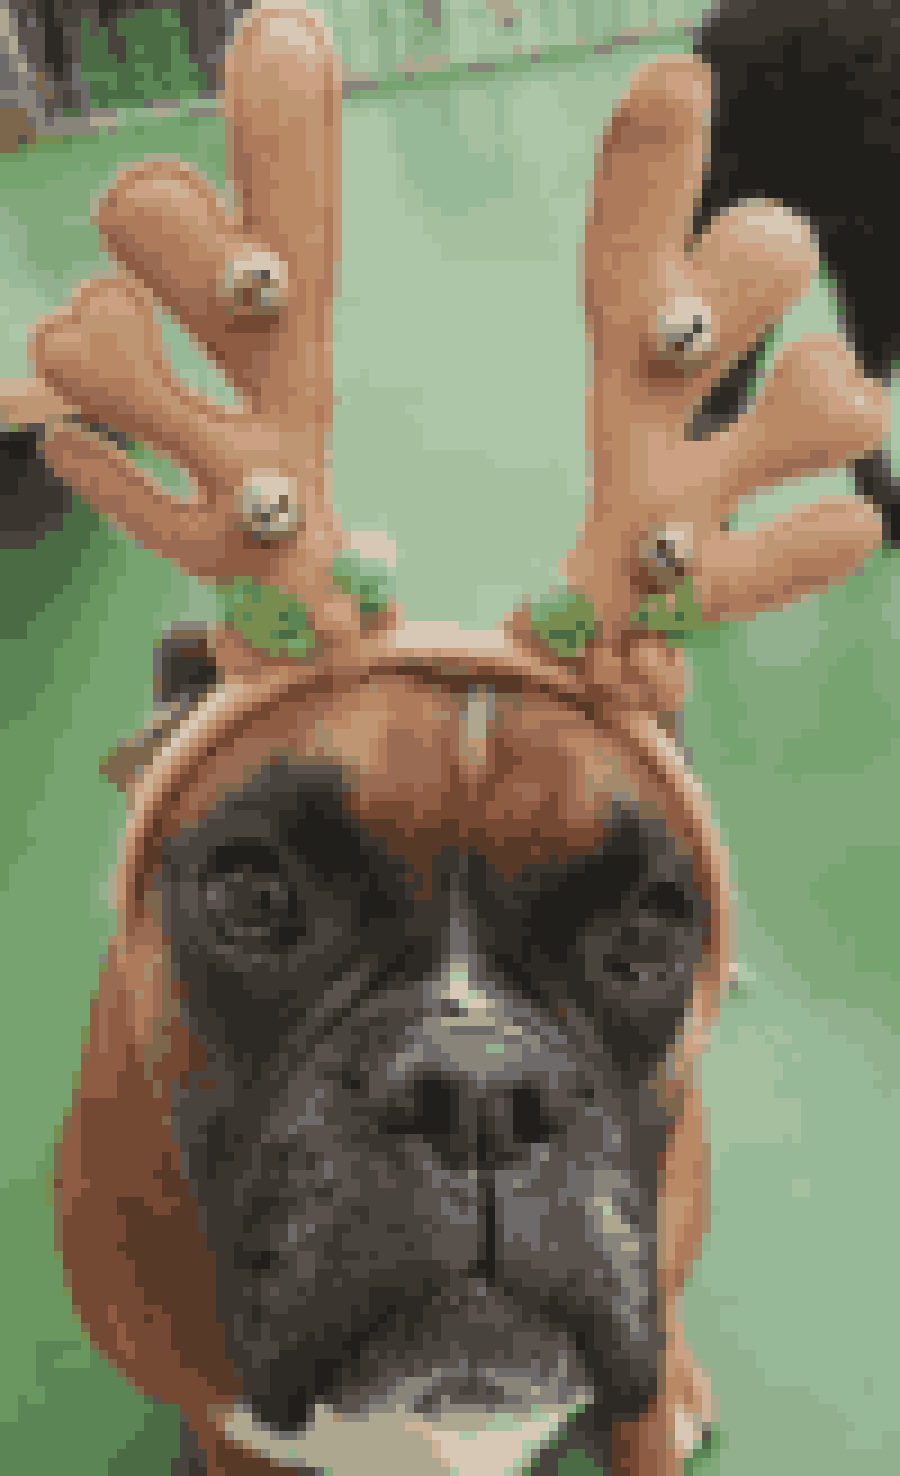
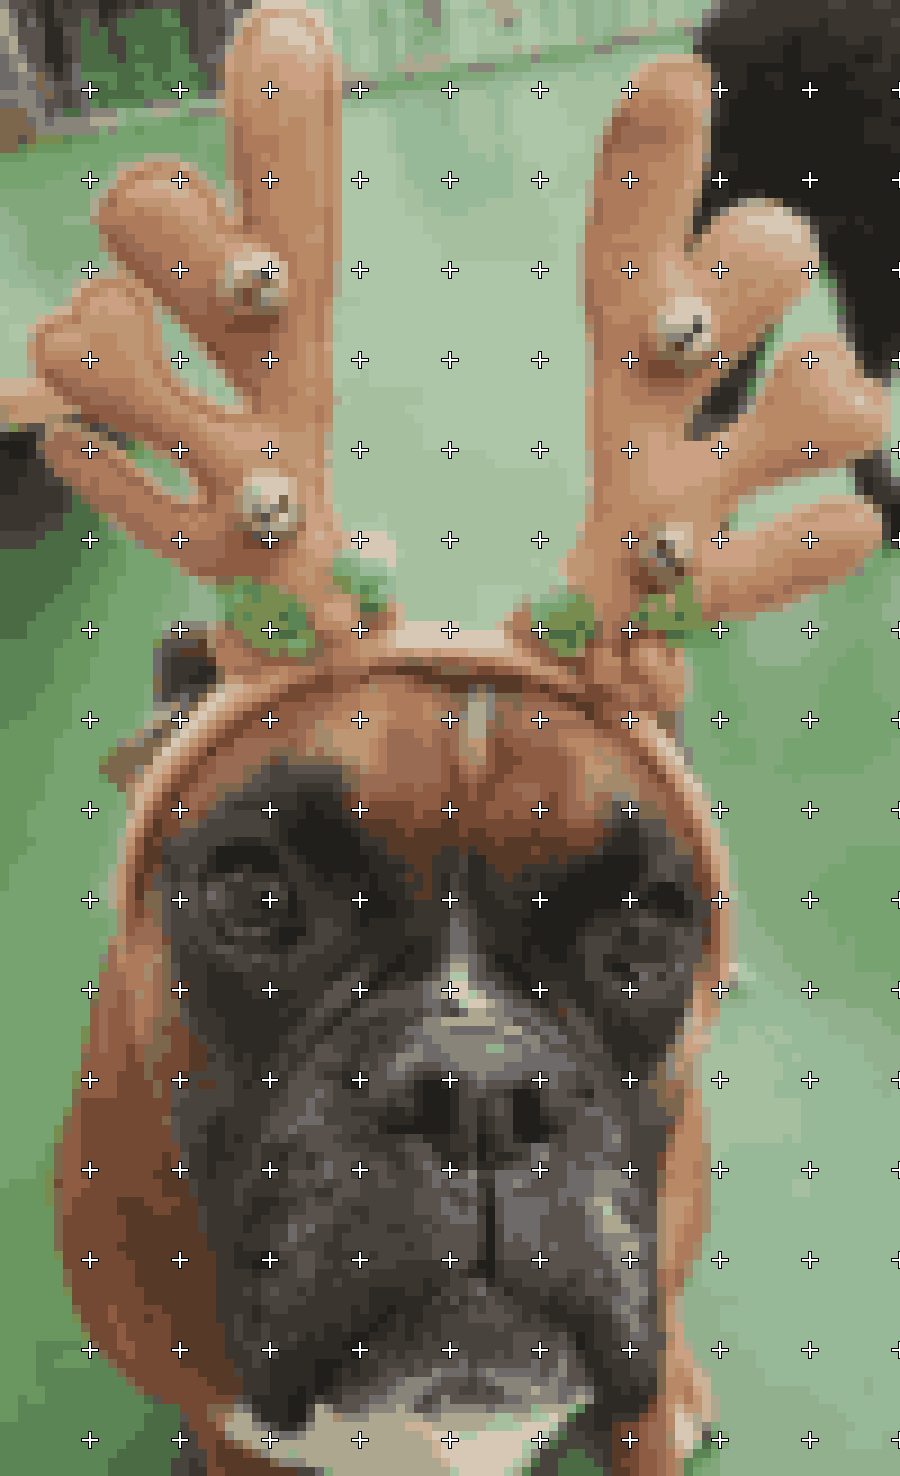
message

diff --git a/pytapestry.py b/pytapestry.py
@@ -9,6 +9,7 @@ argument. Happy 40th Birthday Zoe!
 import numpy as np
 from pathlib import Path
 import argparse
+import matplotlib.pyplot as plt
 
 from skimage.io import imread, imsave
 from skimage.transform import rescale
@@ -32,6 +33,9 @@ parser.add_argument(
 parser.add_argument(
     '--tapestry-width-cells', '-wp', type=int, default=0,
     help='the intended width of the tapestry in canvas cells (pixels)')
+parser.add_argument(
+    '--markers', '-m', type=int, default=0,
+    help='cell interval for marker placement')
 
 args = parser.parse_args()
 
@@ -72,6 +76,91 @@ im_reduced_scaled = np.repeat(im_reduced_scaled, repeats=pixel_scale, axis=1)
 out_filename = args.filepath.stem + '_{}_{}_{}.png'.format(
     args.n_colours, args.canvas_count, int(np.floor(tapestry_width*1000)))
 out_filepath = args.filepath.parent / out_filename
+
+from matplotlib.patches import Rectangle
+import matplotlib.pyplot as plt
+import matplotlib.colors as mcolors
+from matplotlib import rcParams
+import matplotlib.patheffects as pe
+
+cols = 2
+num_rows = np.ceil(len(kmeans.cluster_centers_) / cols)
+
+fig, ax = plt.subplots()
+ax.axis('off')
+cell_height = .1
+cell_width = .5
+swatch_width = .1
+
+ax.set_ylim([1-num_rows*cell_height,1])
+
+for i, colour in enumerate(kmeans.cluster_centers_):
+    # import pdb; pdb.set_trace()
+    row = i // cols
+    col = i % cols
+
+    y = 1 - row * cell_height
+
+    swatch_start_x = cell_width * col
+    text_pos_x = cell_width * col + swatch_width + .025
+
+    rcParams.update({'font.size': 10})
+    rcParams.update({'font.weight': 'normal'})
+    rcParams['font.family'] = 'serif'
+    rcParams.update({'font.serif': 'Times New Roman'})
+
+    colour_rgb = np.round(colour*255).astype(int)
+    label = 'RGB = ({}, {}, {})'.format(
+        colour_rgb[0], colour_rgb[1], colour_rgb[2])
+
+    ax.text(
+        swatch_start_x+swatch_width/3, y-2*cell_height/3, str(i+1),
+        fontsize=12, zorder=1, fontweight='bold', color='w',
+        path_effects=[
+            pe.Stroke(linewidth=3, foreground='k'), pe.Normal()])
+
+    ax.text(
+        text_pos_x, y-cell_height/2, label, fontsize=10,
+        horizontalalignment='left', verticalalignment='center')
+
+    ax.add_patch(
+        Rectangle(
+            xy=(swatch_start_x, y-cell_height), width=swatch_width, height=.1,
+            facecolor=colour))
+
+plt.savefig(
+    args.filepath.parent / 'swatch.png', dpi=96,
+    bbox_inches='tight', format='png')
+
+
+def add_markers(im, interval, pixel_scale):
+    height, width, depth = im.shape
+    del_pix = interval*pixel_scale
+    cross_len = pixel_scale
+    cross_width = 2
+    line_len = 1
+    for i in range(1, height):
+        for j in range(1, width):
+            im[
+                i*del_pix-cross_len:i*del_pix+cross_len,
+                j*del_pix-cross_width:j*del_pix+cross_width, :] = 0
+            im[
+                i*del_pix-cross_width:i*del_pix+cross_width,
+                j*del_pix-cross_len:j*del_pix+cross_len, :] = 0
+            im[
+                i*del_pix-cross_len+line_len:i*del_pix+cross_len-line_len,
+                j*del_pix-cross_width+line_len:j*del_pix+cross_width-line_len,
+                :] = 1
+            im[
+                i*del_pix-cross_width+line_len:i*del_pix+cross_width-line_len,
+                j*del_pix-cross_len+line_len:j*del_pix+cross_len-line_len,
+                :] = 1
+    return im
+
+
+if args.markers > 0:
+    im_reduced_scaled = add_markers(
+        im_reduced_scaled, args.markers, pixel_scale)
 
 imsave(out_filepath, (im_reduced_scaled*255).astype(np.uint8))
 
